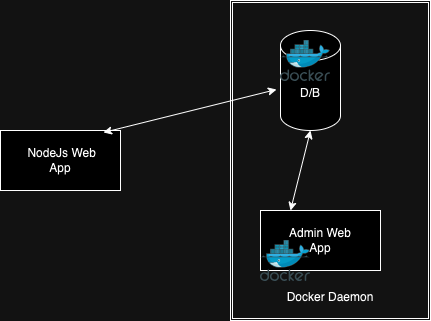
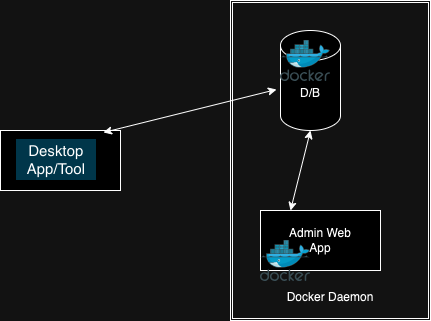
Completed multi-container lab

Changed region(s): [[0.0302, 0.4361, 0.2413, 0.5607]]

diff --git a/topic01/book-2/01.Mongo_app.md b/topic01/book-2/01.Mongo_app.md
@@ -132,18 +132,22 @@ Start the tool, and create a new connection with the following properties:
 + Name - MongoDB container
 + URL - mongodb://admin:secret@localhost:27017/
 
-Click the 'Save & Connect' button. On the left hand side, the databases managed by the MongoDB container are listed, including the tmdb database. Expand it to see the movies collection and its documents. We successfully connected to the MongoDB server running inside the container. This worked for the following reasons:
+Click the 'Save & Connect' button. On the left hand side, the databases managed by the MongoDB container are listed, including the tmdb database. Expand it to see the movies collection and its documents. 
+
+![][compass]
+
+We successfully connected to the containerized MongoDB server from an external application (Compass). This worked for the following reasons:
+
 1. The DB server is listening on port 27017.
 1. The host's port 27017 is mapped to the container's port 27017.
 1. The URL connection string follows the required format, i.e. mongodb://admin:secret@localhost:27017/, but uses localhost for the domain name.
 
-There are two communication flows working in this case study:
+Overall, there are two communication flows working in this case study:
 
-1. Simple Web app to MongoDB container - This is over the regular localhost network managed by the host computer itself. The app communicates with the MongoDB server using the host's port 27017, which is mapped/forwarded to the MongoDB container's port 27017. 
+1. MongoDB Compass to MongoDB container - This is over the regular localhost network managed by the host computer. The connection uses the host's port 27017, which is mapped/forwarded to the MongoDB container's port 27017. 
 1. Mongo Express container to MongoDB container - This is via the Docker-managed network we created - the bridge network named mongo-network.
 
-In future labs, we will return to this multi-container app to demonstrate other aspects of the Docker platform and other topics on this module. For convenience, we will refer to it as the __User Profile Web App__.
 
-
+[compass]: ./img/compass.png
 [mongov]: https://hub.docker.com/_/mongo
 [compass]: https://www.mongodb.com/docs/compass/install/?operating-system=linux&package-type=.deb

diff --git a/topic01/book-2/00.Multi_Container.md b/topic01/book-2/00.Multi_Container.md
@@ -1,18 +1,15 @@
 ## Multi-Container applications.
 
-In this lab, we will assemble multi-container applications. Docker uses virtual networks to facilitate communication between containers. Containers reference each other using IP addresses (default) or by container names. We will manually set up the application's architecture, but this can be automated. Two sample application will be used as case studies, both with similar architecture but different technology stacks. 
+In this lab, we will assemble a multi-container applications. Docker uses virtual networks to facilitate communication between containers. Containers reference each other using IP addresses (default) or by container names. We will manually set up the application's architecture, but this can be automated. The architecture of the app being used is illustrated below:
 
 ![][arch]
 
-The architectures are comprised of:
+The architectures is comprised of:
 
-1. A Node/Express frontend app.
+1. A desktop app/tool.
 1. A database server.
 1. A web-based database administration tool.
 
-
-Only components two and three above are containerized; component one will run outside the Docker framework for now but we will containerize it in a later lab.
-
-For the sake of varitey, one of the case study applications uses a MongoDB database server, while the other uses Postgres for its database.
+Only components two and three above are containerized; component one will run outside the Docker framework, as a desktop app.
 
 [arch]: ./img/arch.png
